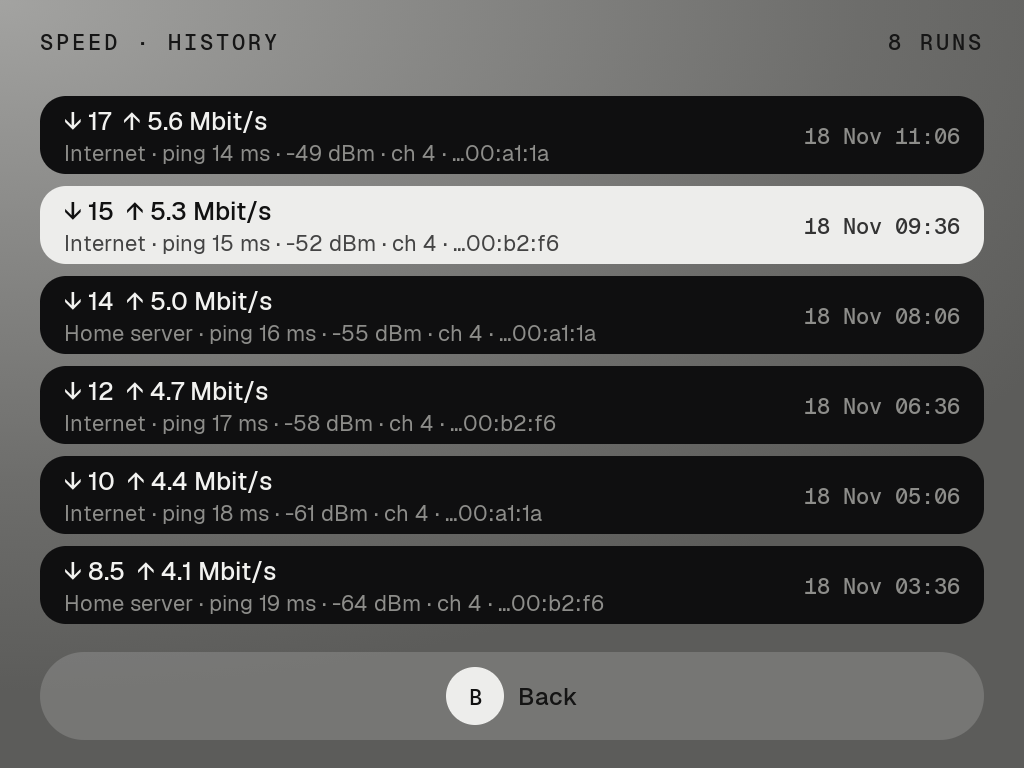
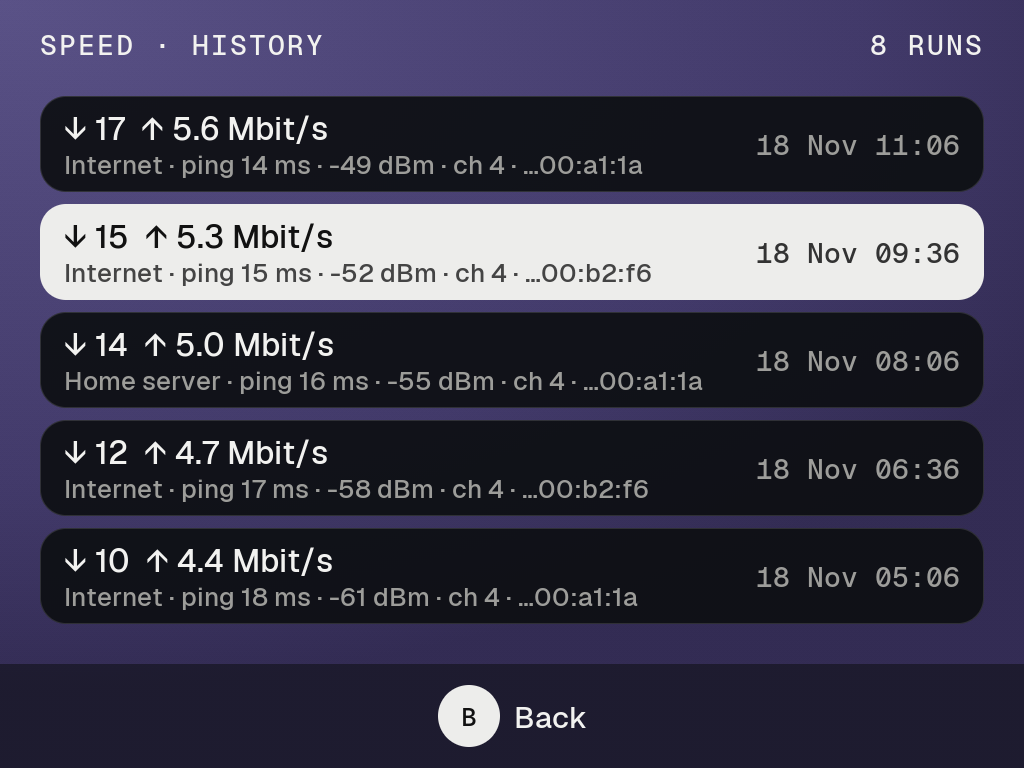
New look on Dot a598cba: bigger type, glass cards on a violet ground, a full-bleed dock; result screen re-laid out (Wi-Fi card in three rows, access point in its heading), history five rows a page, upload in blue; screenshots

diff --git a/src/main.c b/src/main.c
@@ -15,7 +15,6 @@ static Dot *dot;
 static int screen, target, running = 1, hist_sel, hist_top;
 static char toast[120]; static Uint32 toast_until;
 static Uint32 walk_t0;
-#define INK 0x161616   // text on the grey ground
 
 static void show_toast(const char *s) { snprintf(toast, sizeof toast, "%s", s); toast_until = SDL_GetTicks() + 2600; }
 
@@ -38,8 +37,12 @@ static const char *verdict(double low, Uint32 *col) {
 }
 
 // --- graph: a dot matrix, one column per sample, lit from the bottom ----------------------------------------------------
+// Content 96-640: the two cards on top (three option rows under a heading), the graph under them, to 640.
+#define TOP_H (DOT_PAD + 26 + 20 + 2 * DOT_OPT_PITCH + DOT_OPT_H + DOT_PAD)   // 302
+#define GRAPH_Y (DOT_CONTENT_TOP + TOP_H + DOT_GAP)                          // 414
 #define G_ROWS 6
-#define G_PITCH 18
+#define G_PITCH 18    // across: a column per sample
+#define G_VPITCH 22   // up: the dots of a column
 static double nice_top(double v) {
   static const double steps[] = { 1, 2, 3, 5, 10, 15, 20, 30, 40, 50, 75, 100, 150, 200, 300, 500, 1000 };
   for (unsigned i = 0; i < sizeof steps / sizeof *steps; i++) if (v <= steps[i]) return steps[i];
@@ -49,37 +52,41 @@ static void column(int x, int y, double frac, Uint32 col) {   // y: top of the m
   int lit = (int)(frac * G_ROWS + .5);
   if (frac > 0.02 && lit == 0) lit = 1;
   for (int r = 0; r < G_ROWS; r++)
-    dot_circle(dot, x, y + (G_ROWS - 1 - r) * G_PITCH + 5, 5, r < lit ? col : DOT_TRACK);
+    dot_circle(dot, x, y + (G_ROWS - 1 - r) * G_VPITCH + 5, 5, r < lit ? col : DOT_TRACK);
 }
 
 static void graph_panel(const char *label, const char *right, int *x0, int *y0, int *cols) {
-  int y = dot_panel(dot, 40, 422, 944, 214, label);
-  if (right) dot_text(dot, DOT_LABEL_T, right, 954, 446, DOT_LABEL, DOT_RIGHT, 0);
-  *x0 = 75; *y0 = y + 2; *cols = (944 - 70) / G_PITCH + 1;
+  int h = DOT_CONTENT_BOTTOM - GRAPH_Y, gh = (G_ROWS - 1) * G_VPITCH + 10;
+  int y = dot_panel(dot, 40, GRAPH_Y, 944, h, label);
+  if (right) dot_text(dot, DOT_PANEL_T, right, 954, GRAPH_Y + DOT_PAD, DOT_LABEL, DOT_RIGHT, 0);
+  *x0 = 75; *y0 = y + (GRAPH_Y + h - DOT_PAD - y - gh) / 2; *cols = (944 - 70) / G_PITCH + 1;
 }
 
 // --- test screen --------------------------------------------------------------------------------------------------------
+// Three rows; the access point (which mesh point) goes in the heading, the walk's mesh switches in its graph.
 static void wifi_card(int walk, const Meter *m) {
   WifiInfo w; wifi_get(&w);
-  int P = DOT_OPT_PITCH, y = dot_panel(dot, 520, 96, 464, 310, walk ? "Wi-Fi now" : "Wi-Fi");
-  char s[80], ap[24];
+  char s[80], ap[24], head[48];
+  fmt_ap(w.bssid, ap, sizeof ap);
+  snprintf(head, sizeof head, "%s%s%s", walk ? "Wi-Fi now" : "Wi-Fi", w.connected ? " · " : "", w.connected ? ap : "");
+  int P = DOT_OPT_PITCH, y = dot_panel(dot, 520, DOT_CONTENT_TOP, 464, TOP_H, head);
   if (!w.connected) { dot_opt(dot, 550, y, 404, "Signal", "Not connected", 0); return; }
   snprintf(s, sizeof s, "%d dBm", w.dbm); dot_opt(dot, 550, y, 404, "Signal", s, 0);
-  snprintf(s, sizeof s, "%d · %s%s", wifi_channel(w.freq), wifi_band(w.freq), w.width >= 40 ? " · 40 MHz" : "");
-  if (w.width >= 80) snprintf(s, sizeof s, "%d · %s · %d MHz", wifi_channel(w.freq), wifi_band(w.freq), w.width);
+  // the channel width too when it fits beside the label (it doesn't at 28 px for most): the band matters more
+  snprintf(s, sizeof s, "%d · %s · %d MHz", wifi_channel(w.freq), wifi_band(w.freq), w.width);
+  if (w.width < 40 || dot_text_w(dot, DOT_VALUE, s) + dot_text_w(dot, DOT_UI, "Channel") + 24 > 404)
+    snprintf(s, sizeof s, "%d · %s", wifi_channel(w.freq), wifi_band(w.freq));
   dot_opt(dot, 550, y + P, 404, "Channel", s, 0);
-  fmt_ap(w.bssid, ap, sizeof ap);
-  dot_opt(dot, 550, y + 2 * P, 404, "Access point", ap, 0);
-  if (walk) { snprintf(s, sizeof s, "%d", w.roams); dot_opt(dot, 550, y + 3 * P, 404, "Mesh switches", s, 0); return; }
+  if (walk) { snprintf(s, sizeof s, "%d", w.roams); dot_opt(dot, 550, y + 2 * P, 404, "Mesh switches", s, 0); return; }
   if (m->router >= 0) snprintf(s, sizeof s, "%.0f ms", m->router); else snprintf(s, sizeof s, "%.0f Mbit/s", w.rate);
-  dot_opt(dot, 550, y + 3 * P, 404, m->router >= 0 ? "Router ping" : "Link rate", s, 0);
+  dot_opt(dot, 550, y + 2 * P, 404, m->router >= 0 ? "Router ping" : "Link rate", s, 0);
 }
 
 static void big_number(const char *label, int adot, const char *num, const char *unit) {
-  dot_card(dot, 40, 96, 464, 310);
+  dot_card(dot, 40, DOT_CONTENT_TOP, 464, TOP_H);
   int x = 70;
-  if (adot) { dot_adot(dot, 70, 128, adot == 1 ? dot_accent(dot) : (Uint32)adot); x = 96; }
-  dot_text(dot, DOT_LABEL_T, label, x, 122, DOT_LABEL, DOT_LEFT, 0);
+  if (adot) { dot_adot(dot, 70, DOT_CONTENT_TOP + DOT_PAD + 6, adot == 1 ? dot_accent(dot) : (Uint32)adot); x = 96; }
+  dot_text(dot, DOT_PANEL_T, label, x, DOT_CONTENT_TOP + DOT_PAD, DOT_LABEL, DOT_LEFT, 0);   // as the Wi-Fi card's heading
   int w = dot_text(dot, DOT_DISPLAY_XL, num, 64, 156, DOT_TEXT, DOT_LEFT, 0);
   if (unit) dot_text(dot, DOT_TITLE, unit, 64 + w + 14, 206, DOT_LABEL, DOT_LEFT, 0);
 }
@@ -103,10 +110,16 @@ static void draw_test(void) {
     else { fmt_mbit(busy ? m.live : m.down, num, sizeof num); big_number(lab, busy, num, "Mbit/s"); }
     // the other results on one line under the number
     char up[16], dn[16]; fmt_mbit(m.up, up, sizeof up); fmt_mbit(m.down, dn, sizeof dn);
-    int n = 0; s[0] = 0;
-    if (m.phase == PH_UP) n += snprintf(s + n, sizeof s - n, "DOWN %s · ", dn);
-    if (m.up >= 0) n += snprintf(s + n, sizeof s - n, "UP %s · ", up);
-    if (m.ping >= 0) n += snprintf(s + n, sizeof s - n, "PING %.0f ms ± %.0f", m.ping, m.jitter);
+    // shortest last: big numbers don't fit 404 px at 28 px with "ms" and the jitter, so those go first
+    for (int fit = 0; fit < 3; fit++) {
+      int n = 0; s[0] = 0;
+      if (m.phase == PH_UP) n += snprintf(s + n, sizeof s - n, "DOWN %s · ", dn);
+      if (m.up >= 0) n += snprintf(s + n, sizeof s - n, "UP %s · ", up);
+      if (m.ping >= 0) n += snprintf(s + n, sizeof s - n, fit == 0 ? "PING %.0f ms ± %.0f" : fit == 1 ? "PING %.0f ± %.0f" : "PING %.0f",
+                                     m.ping, m.jitter);
+      if (n >= 3 && !strcmp(s + n - 3, " · ")) s[n - 3] = 0;
+      if (dot_text_w(dot, DOT_VALUE, s) <= 404) break;
+    }
     dot_text(dot, DOT_VALUE, s, 70, 282, DOT_LABEL, DOT_LEFT, 404);
     if (busy) {
       double f = m.phase_len > 0 ? (now_ms() - m.phase_t0) / m.phase_len : 0;
@@ -130,7 +143,7 @@ static void draw_test(void) {
   int c = 0;
   for (int i = 0; i + 1 < m.ndown && c < cols; i += 2, c++) column(x0 + c * G_PITCH, y0, (m.sdown[i] + m.sdown[i + 1]) / 2 / top, DOT_TEXT);
   if (m.nup) c++;
-  for (int i = 0; i + 1 < m.nup && c < cols; i += 2, c++) column(x0 + c * G_PITCH, y0, (m.sup[i] + m.sup[i + 1]) / 2 / top, DOT_SERIES_3);
+  for (int i = 0; i + 1 < m.nup && c < cols; i += 2, c++) column(x0 + c * G_PITCH, y0, (m.sup[i] + m.sup[i + 1]) / 2 / top, DOT_SERIES_1);
   for (; c < cols; c++) column(x0 + c * G_PITCH, y0, 0, 0);
 
   if (busy) { DotHint h[] = { { "B", "Stop" } }; dot_dock(dot, h, 1); }
@@ -161,7 +174,7 @@ static void draw_walk(void) {
     if (!w.connected) snprintf(s, sizeof s, "NO WI-FI");
     else snprintf(s, sizeof s, "SLOWEST LAST MINUTE %s", l);
     dot_text(dot, DOT_VALUE, s, 70, 282, w.connected ? DOT_LABEL : DOT_CRITICAL, DOT_LEFT, 404);
-    dot_text(dot, DOT_BODY_S, "Walk around: watch where it drops", 70, 330, DOT_LABEL, DOT_LEFT, 404);
+    dot_text(dot, DOT_BODY_S, "Walk: watch where it drops", 70, 330, DOT_LABEL, DOT_LEFT, 404);
   }
   wifi_card(1, &m);
 
@@ -180,7 +193,7 @@ static void draw_walk(void) {
     if (m.wdbm[i]) {   // -90 dBm at the bottom row, -30 at the top
       double f = (m.wdbm[i] + 90) / 60.0; f = f < 0 ? 0 : f > 1 ? 1 : f;
       int r = (int)(f * (G_ROWS - 1) + .5);
-      dot_circle(dot, x, y0 + (G_ROWS - 1 - r) * G_PITCH + 5, 5, DOT_SERIES_2);
+      dot_circle(dot, x, y0 + (G_ROWS - 1 - r) * G_VPITCH + 5, 5, DOT_SERIES_1);
     }
     if (m.wroam[i]) dot_circle(dot, x, y0 + 5, 5, DOT_WARN);   // a mesh switch: the top dot
   }
@@ -189,13 +202,13 @@ static void draw_walk(void) {
 }
 
 // --- history ------------------------------------------------------------------------------------------------------------
-#define HIST_ROWS 6
-#define HIST_PITCH 90
+#define HIST_ROWS 5                            // 96 + 4 x 108 + 96 = 624: clear of the dock
+#define HIST_PITCH (DOT_ROW_H + 12)
 static void draw_history(void) {
   char cnt[32]; int n = history_count();
   snprintf(cnt, sizeof cnt, "%d run%s", n, n == 1 ? "" : "s");
   dot_header(dot, "SPEED · HISTORY", cnt);
-  if (!n) dot_text(dot, DOT_TITLE, "No runs yet", 70, 300, INK, DOT_LEFT, 0);
+  if (!n) dot_text(dot, DOT_TITLE, "No runs yet", 70, 300, DOT_ON_GROUND, DOT_LEFT, 0);
   if (hist_sel < hist_top) hist_top = hist_sel;
   if (hist_sel >= hist_top + HIST_ROWS) hist_top = hist_sel - HIST_ROWS + 1;
   for (int k = 0; k < HIST_ROWS && hist_top + k < n; k++) {
@@ -218,7 +231,6 @@ static void draw_history(void) {
 
 static void draw(void) {
   dot_frame(dot);
-  dot_set_accent(dot, ACCENT_SPEED);
   dot_ground(dot);
   if (screen == SCR_TEST) draw_test();
   else if (screen == SCR_WALK) draw_walk();
@@ -365,7 +377,8 @@ int main(int argc, char **argv) {
   SDL_RenderSetLogicalSize(ren, W, H);
   for (int i = 0; i < SDL_NumJoysticks(); i++) if (SDL_IsGameController(i)) SDL_GameControllerOpen(i);
   char p[700]; snprintf(p, sizeof p, "%s/fonts", pak);
-  if (!(dot = dot_init(ren, p, ACCENT_SPEED))) { fprintf(stderr, "fonts in %s: %s\n", p, SDL_GetError()); return 1; }
+  if (!(dot = dot_init(ren, p, DOT_ACCENT_SPEED))) { fprintf(stderr, "fonts in %s: %s\n", p, SDL_GetError()); return 1; }
+  { static const DotTheme th = DOT_THEME_SPEED; dot_set_theme(dot, &th); }   // violet evening ground, violet state dot
   snprintf(p, sizeof p, "%s/cacert.pem", pak);
   if (!net_init(p)) fprintf(stderr, "HTTPS won't work: %s\n", p);
   history_open(user);

diff --git a/src/speed.h b/src/speed.h
@@ -5,7 +5,6 @@
 
 #define W 1024
 #define H 768
-#define ACCENT_SPEED 0xbf7bff   // violet: the app's state dot (testing, walking)
 
 // Buttons: the Brick's face buttons are labelled the Nintendo way round, SDL names them the Xbox way.
 enum { BTN_A = SDL_CONTROLLER_BUTTON_B, BTN_B = SDL_CONTROLLER_BUTTON_A, BTN_X = SDL_CONTROLLER_BUTTON_Y,
